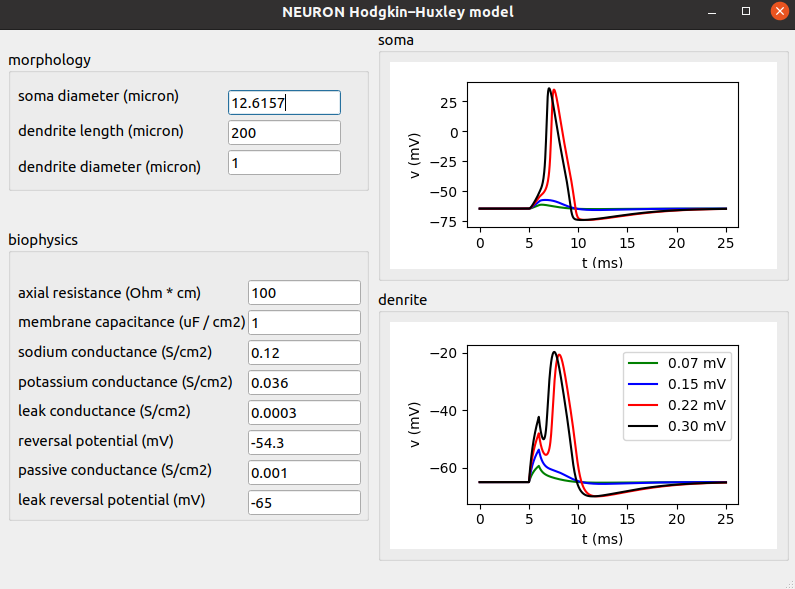
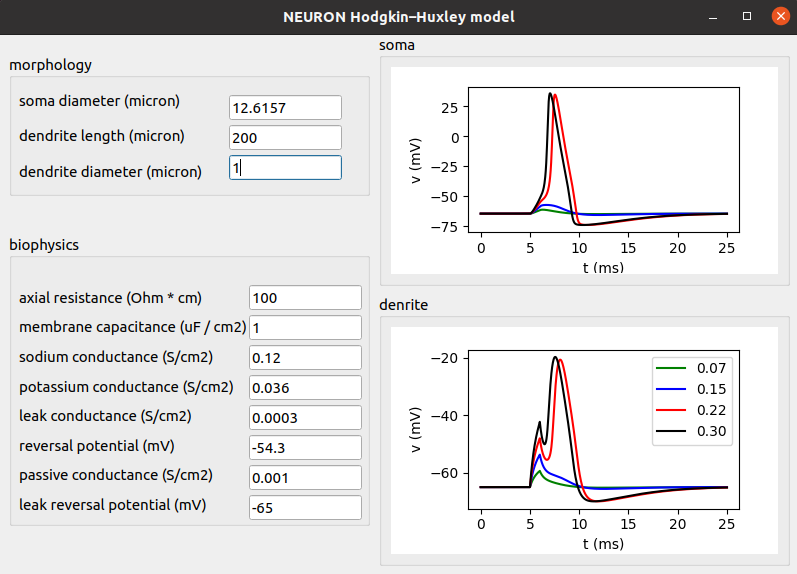
amp is in nA, not mV

diff --git a/src/main.py b/src/main.py
@@ -146,7 +146,7 @@ class MyMainWindow(QtWidgets.QMainWindow):
                 self.canvas_soma.draw()
                 self.ax_soma.plot(t, soma_v,color)
 
-            self.ax_dend.legend(["{:.2f} mV".format(elem) for elem in amps])
+            self.ax_dend.legend(["{:.2f}".format(elem) for elem in amps])
         except:
             self.ax_soma.clear()
             self.ax_dend.clear()
